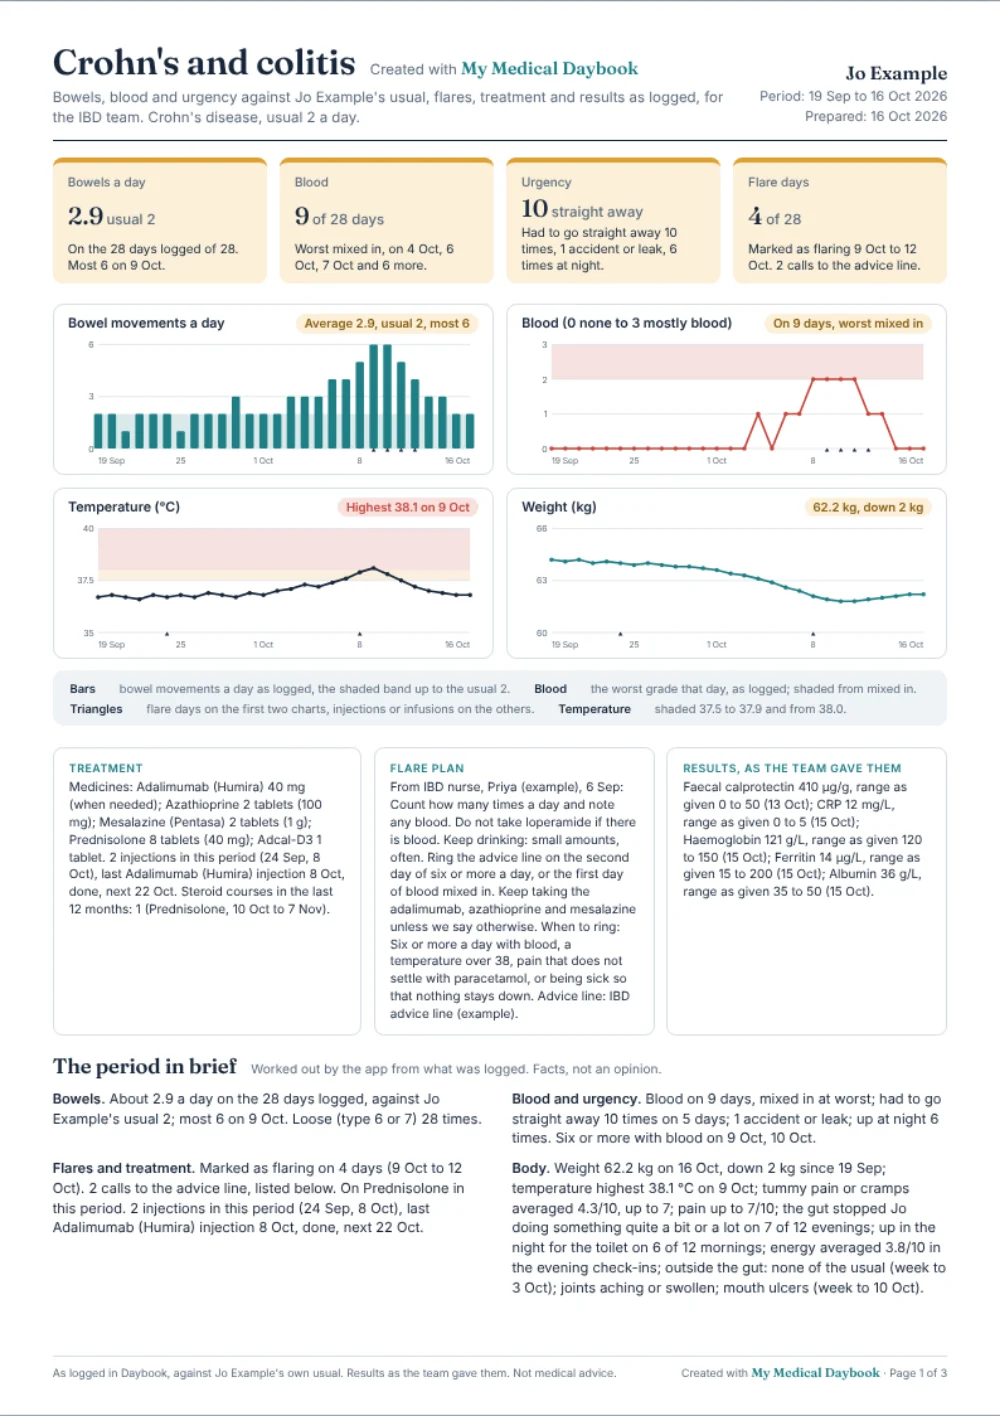
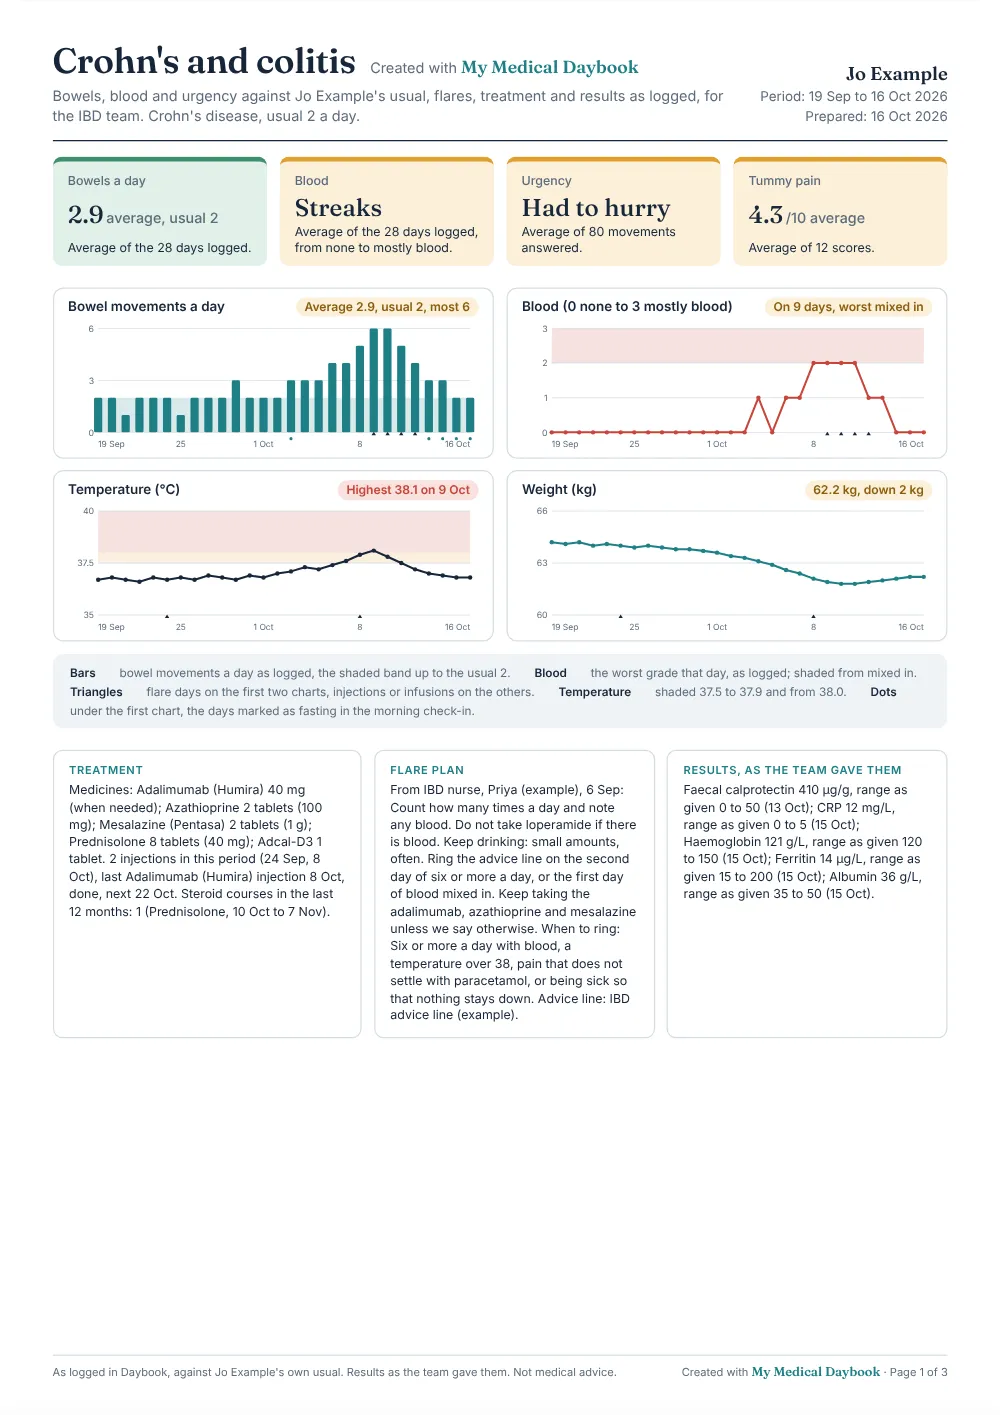
Report pictures retaken: averages on every report's tiles
Claude-Session: https://claude.ai/code/session_019VY17MM1Pv81B6vJUTKu9b

Changed region(s): [[0.031, 0.0311, 0.961, 0.9329], [0.0, 0.964, 1.0, 1.0]]

diff --git a/index.html b/index.html
@@ -274,20 +274,20 @@
           <div class="page"><picture><source type="image/webp" srcset="media/report-notes-2.webp"><img src="media/report-notes-2.jpg" alt="Notes for the team, page 2: eight small charts of the week's readings, and the week's notes with the days that need a mention marked." width="1000" height="1416" loading="lazy"></picture></div>
         </figure>
         <figure class="pages" data-report="ibd" data-n="3" data-cap="Crohn's and colitis: bowels, blood and urgency against the person's own usual, flare days and calls to the advice line, injections and steroid courses, results exactly as the lab gave them, and the questions for the gastro team." hidden>
-          <div class="page"><picture><source type="image/webp" srcset="media/report-ibd-1.webp"><img src="media/report-ibd-1.jpg" alt="The Crohn's and colitis report, page 1: tiles for bowels a day, blood, urgency and flare days, four charts, the treatment, the flare plan and the results as given." width="1000" height="1416" loading="lazy"></picture></div>
+          <div class="page"><picture><source type="image/webp" srcset="media/report-ibd-1.webp"><img src="media/report-ibd-1.jpg" alt="The Crohn's and colitis report, page 1: the period's averages for bowels a day, blood, urgency and tummy pain, four charts, the treatment, the flare plan and the results as given." width="1000" height="1416" loading="lazy"></picture></div>
           <div class="page"><picture><source type="image/webp" srcset="media/report-ibd-2.webp"><img src="media/report-ibd-2.jpg" alt="Page 2: the month week by week, the flare log, the questions outside the gut, every result with its range, and the questions for the gastro team." width="1000" height="1414" loading="lazy"></picture></div>
           <div class="page"><picture><source type="image/webp" srcset="media/report-ibd-3.webp"><img src="media/report-ibd-3.jpg" alt="Page 3: a ruled panel for the notes from the appointment." width="1000" height="1414" loading="lazy"></picture></div>
         </figure>
         <figure class="pages" data-report="pain" data-n="2" data-cap="Pain and pain relief, for the pain nurse: the morning and evening check-in scores, the worst pain and pain between check-ins, key points in the patient's own words, every dose of pain relief and when the top-ups were taken, and nights broken by pain." hidden>
-          <div class="page"><picture><source type="image/webp" srcset="media/report-pain-1.webp"><img src="media/report-pain-1.jpg" alt="The Pain and pain relief report, page 1: four tiles, six small charts of the check-in scores, the doses and the sleep, and key points from the scores and in the patient's own words." width="1000" height="1415" loading="lazy"></picture></div>
+          <div class="page"><picture><source type="image/webp" srcset="media/report-pain-1.webp"><img src="media/report-pain-1.jpg" alt="The Pain and pain relief report, page 1: four tiles of the period's averages, six small charts of the check-in scores, the doses and the sleep, and key points from the scores and in the patient's own words." width="1000" height="1415" loading="lazy"></picture></div>
           <div class="page"><picture><source type="image/webp" srcset="media/report-pain-2.webp"><img src="media/report-pain-2.jpg" alt="Page 2: the pain relief table, when the top-up doses were taken across the day, nights broken by pain, week by week, and a question for the pain team." width="1000" height="1416" loading="lazy"></picture></div>
         </figure>
         <figure class="pages" data-report="food" data-n="2" data-cap="The Food diary, for the dietitian: what was eaten and drunk each day, protein against the target, the food groups that came up, and points to discuss, with room for the dietitian's notes." hidden>
           <div class="page"><picture><source type="image/webp" srcset="media/report-food-1.webp"><img src="media/report-food-1.jpg" alt="The Food diary report, page 1: the protein banner, four tiles, a protein chart with the target line, the food group grid, the drinks chart and points to discuss." width="1000" height="1416" loading="lazy"></picture></div>
           <div class="page"><picture><source type="image/webp" srcset="media/report-food-2.webp"><img src="media/report-food-2.jpg" alt="Page 2: the energy and macro charts, and two week cards with a line for each day's meals." width="1000" height="1414" loading="lazy"></picture></div>
         </figure>
-        <figure class="pages" data-report="mood" data-n="2" data-cap="Mood and wellbeing, for the therapist or GP: the best and hardest days and why, mood with pain and sleep behind it, the period in brief, and the weekly check in the person's own words. The raw notes are never printed." hidden>
-          <div class="page"><picture><source type="image/webp" srcset="media/report-mood-1.webp"><img src="media/report-mood-1.jpg" alt="The Mood and wellbeing report, page 1: four tiles, one chart of mood with pain and sleep behind it, the period in brief and quotes in the person's own words." width="1000" height="1416" loading="lazy"></picture></div>
+        <figure class="pages" data-report="mood" data-n="2" data-cap="Mood and wellbeing, for the therapist or GP: the period's averages, mood with pain and sleep behind it, the period in brief, and the weekly check in the person's own words. The raw notes are never printed." hidden>
+          <div class="page"><picture><source type="image/webp" srcset="media/report-mood-1.webp"><img src="media/report-mood-1.jpg" alt="The Mood and wellbeing report, page 1: four tiles of the period's averages, one chart of mood with pain and sleep behind it, the period in brief and quotes in the person's own words." width="1000" height="1416" loading="lazy"></picture></div>
           <div class="page"><picture><source type="image/webp" srcset="media/report-mood-2.webp"><img src="media/report-mood-2.jpg" alt="Page 2: what helped and what was hardest, week by week, and the questions for the session." width="1000" height="1414" loading="lazy"></picture></div>
         </figure>
         <p class="rcap" id="r-cap"></p>
